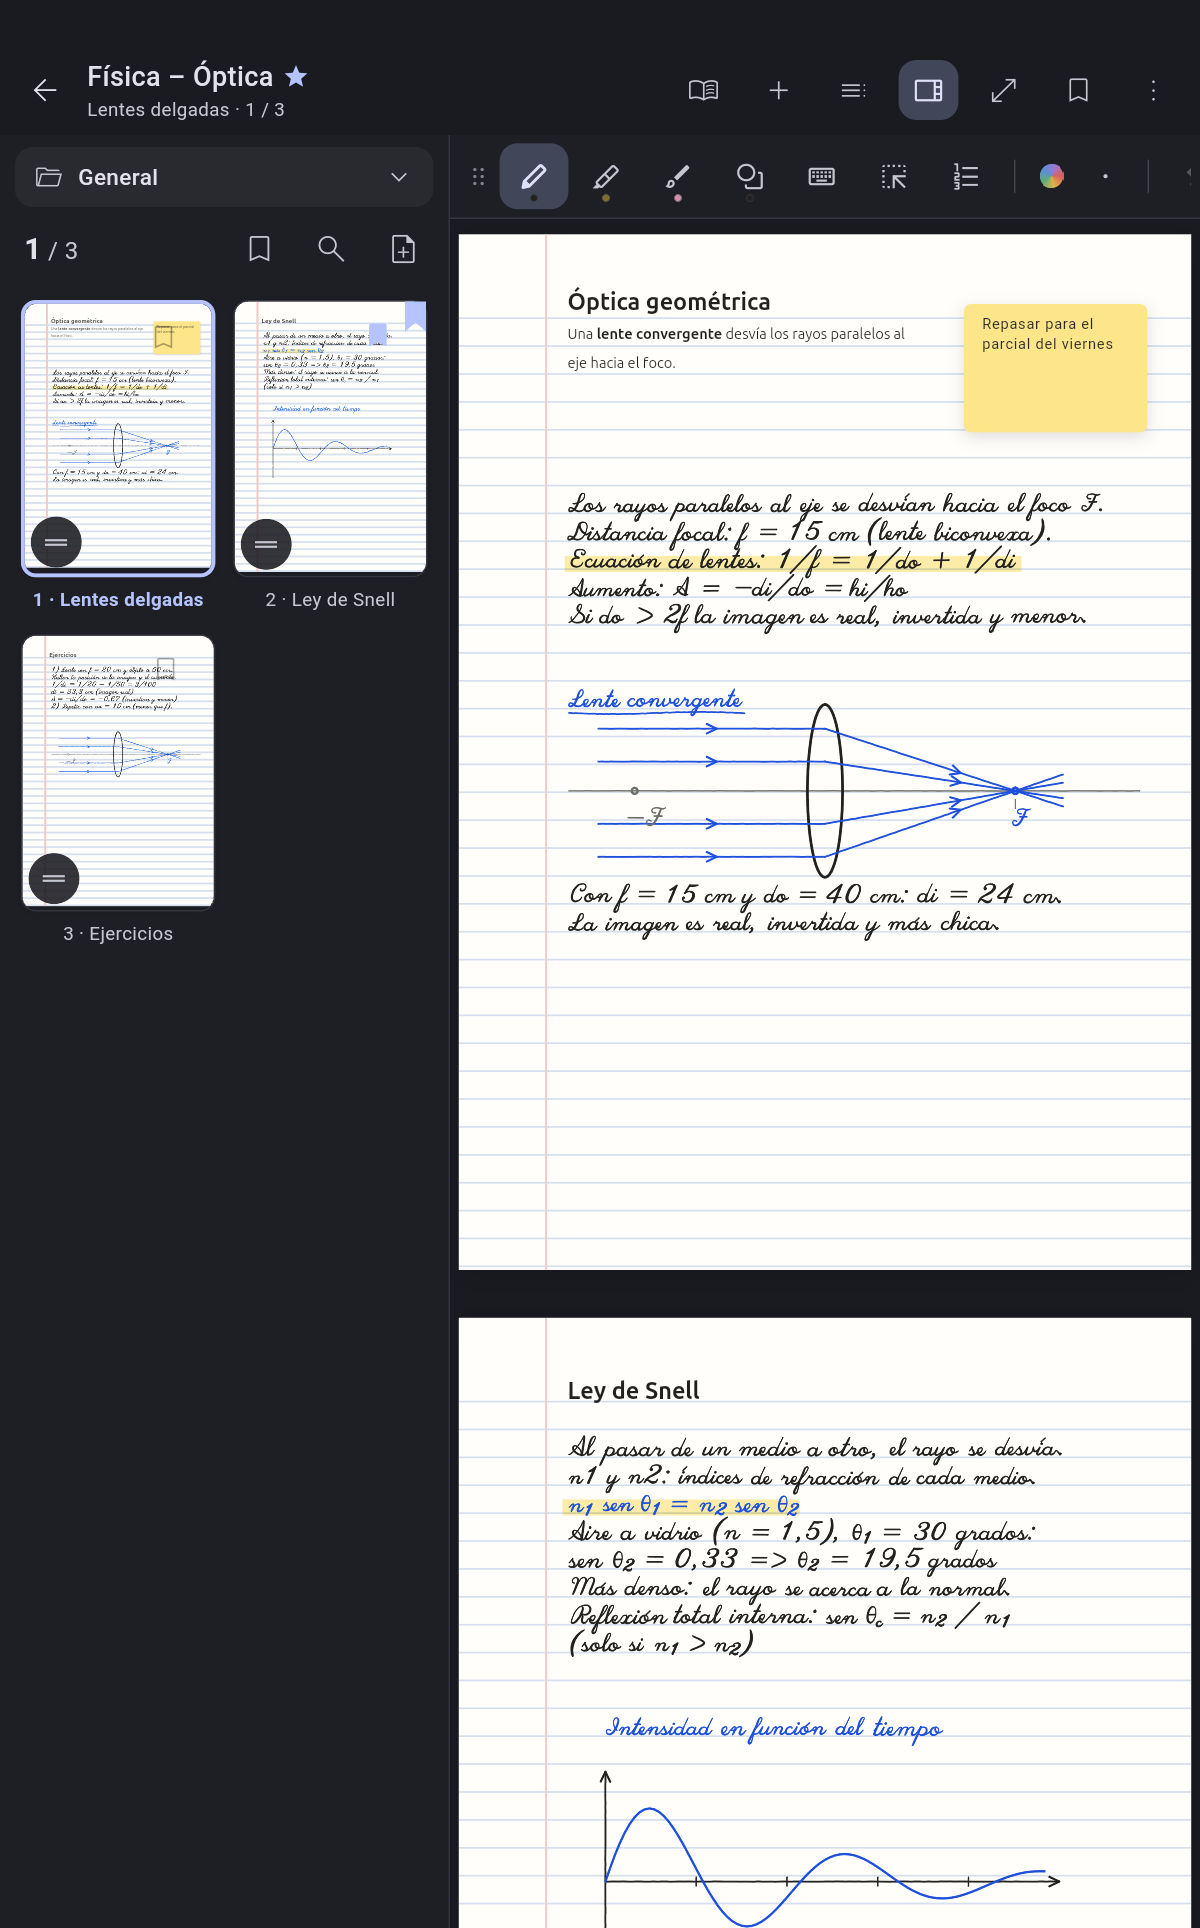
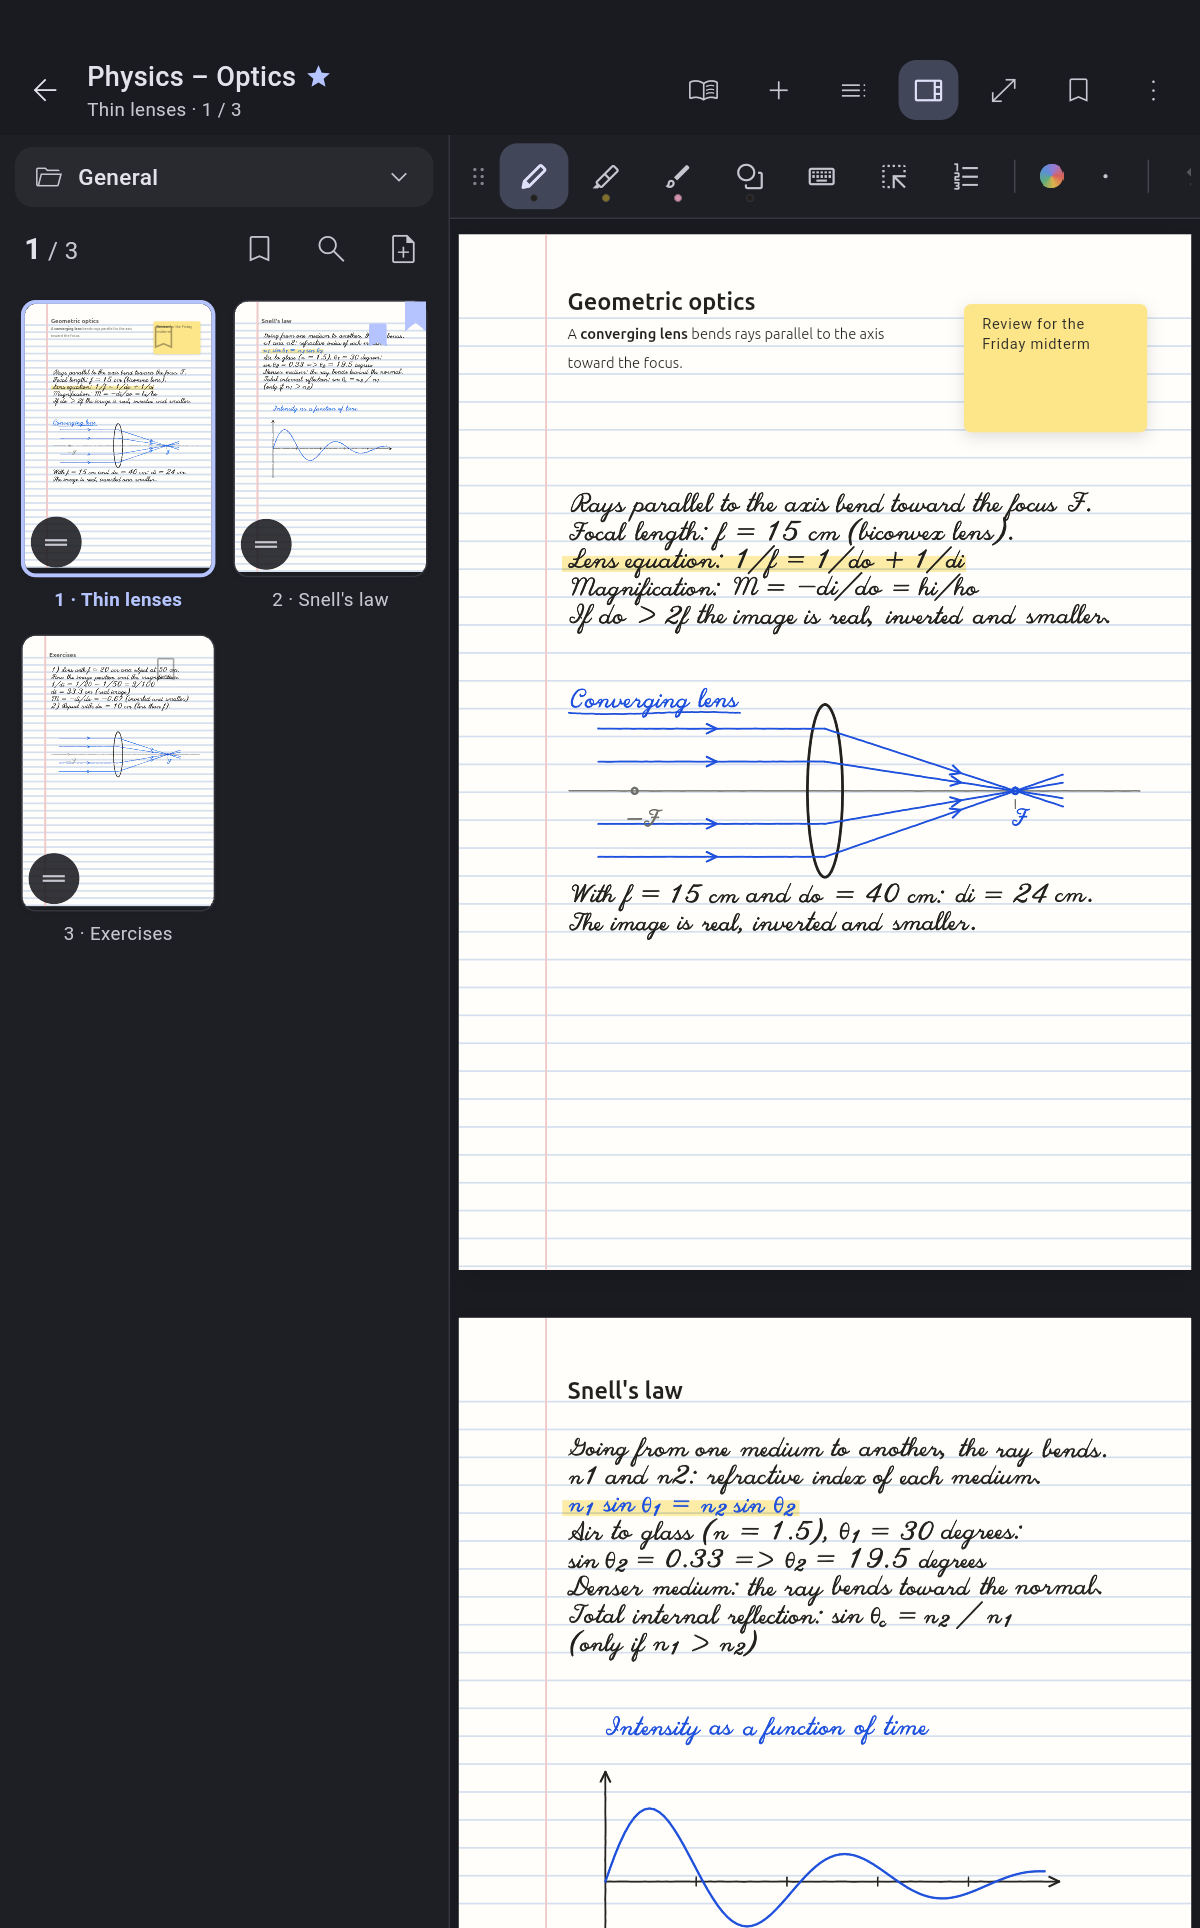
Capturas del README solo en inglés, en docs/img/; el inglés pasa a ser el idioma por defecto del contenido de ejemplo

diff --git a/integration_test/screenshots_data.dart b/integration_test/screenshots_data.dart
@@ -14,10 +14,10 @@ import 'package:pdf/widgets.dart' as pw;
 
 import 'hershey_script.dart';
 
-const shotLang = String.fromEnvironment('SHOT_LANG', defaultValue: 'es');
+const shotLang = String.fromEnvironment('SHOT_LANG', defaultValue: 'en');
 bool get _en => shotLang == 'en';
 
-/// Elige el texto de ejemplo según el idioma de las capturas (`--dart-define=SHOT_LANG=es|en`; por defecto es).
+/// Elige el texto de ejemplo según el idioma de las capturas (`--dart-define=SHOT_LANG=es|en`; por defecto en, el del README).
 String tr(String es, String en) => _en ? en : es;
 
 // Nombres de los cuadernos (el test los abre por su key `nb-<nombre>`).

diff --git a/README.md b/README.md
@@ -73,16 +73,16 @@ with no accounts and no servers of our own. If you want, you can sync them betwe
 
 <table>
   <tr>
-    <td align="center"><img src="docs/img/en/01_cuaderno.png" width="260" alt="A physics notebook with handwriting, a lens diagram, a highlighter and a sticky note"><br><sub><b>Notebook</b>: handwriting with pressure, keyboard text, highlighter and notes.</sub></td>
-    <td align="center"><img src="docs/img/en/02_panel_hojas.png" width="260" alt="The page panel with thumbnails of each page in the notebook"><br><sub><b>Page panel</b>: thumbnails to jump to, move or mark each page.</sub></td>
-    <td align="center"><img src="docs/img/en/03_biblioteca.png" width="260" alt="The library with folders and notebooks"><br><sub><b>Library</b>: folders, favorites and thumbnails of your notebooks.</sub></td>
+    <td align="center"><img src="docs/img/01_cuaderno.png" width="260" alt="A physics notebook with handwriting, a lens diagram, a highlighter and a sticky note"><br><sub><b>Notebook</b>: handwriting with pressure, keyboard text, highlighter and notes.</sub></td>
+    <td align="center"><img src="docs/img/02_panel_hojas.png" width="260" alt="The page panel with thumbnails of each page in the notebook"><br><sub><b>Page panel</b>: thumbnails to jump to, move or mark each page.</sub></td>
+    <td align="center"><img src="docs/img/03_biblioteca.png" width="260" alt="The library with folders and notebooks"><br><sub><b>Library</b>: folders, favorites and thumbnails of your notebooks.</sub></td>
   </tr>
   <tr>
-    <td align="center"><img src="docs/img/en/04_indice.png" width="260" alt="The Index panel with the notebook titles numbered by level"><br><sub><b>Index</b>: handwritten titles numbered by level, with the panel to jump to each one.</sub></td>
-    <td align="center"><img src="docs/img/en/05_figuras.png" width="260" alt="Neat shapes drawn from strokes, with handles to stretch and rotate"><br><sub><b>Shapes and selection</b>: neat shapes made from your strokes, with handles to stretch and rotate.</sub></td>
-    <td align="center"><img src="docs/img/en/06_pdf.png" width="260" alt="An imported PDF with highlighting and handwritten answers on top"><br><sub><b>Annotated PDF</b>: an imported PDF with highlighting and handwritten answers on top.</sub></td>
+    <td align="center"><img src="docs/img/04_indice.png" width="260" alt="The Index panel with the notebook titles numbered by level"><br><sub><b>Index</b>: handwritten titles numbered by level, with the panel to jump to each one.</sub></td>
+    <td align="center"><img src="docs/img/05_figuras.png" width="260" alt="Neat shapes drawn from strokes, with handles to stretch and rotate"><br><sub><b>Shapes and selection</b>: neat shapes made from your strokes, with handles to stretch and rotate.</sub></td>
+    <td align="center"><img src="docs/img/06_pdf.png" width="260" alt="An imported PDF with highlighting and handwritten answers on top"><br><sub><b>Annotated PDF</b>: an imported PDF with highlighting and handwritten answers on top.</sub></td>
   </tr>
-  <tr><td colspan="3" align="center"><img src="docs/img/en/07_sync.png" width="800" alt="The same notebook open on the tablet and in the Linux app, synced with Google Drive"><br><sub><b>Tablet and PC in sync</b>: the same notebook on the tablet and in the Linux app, with Google Drive.</sub></td></tr>
+  <tr><td colspan="3" align="center"><img src="docs/img/07_sync.png" width="800" alt="The same notebook open on the tablet and in the Linux app, synced with Google Drive"><br><sub><b>Tablet and PC in sync</b>: the same notebook on the tablet and in the Linux app, with Google Drive.</sub></td></tr>
 </table>
 
 ## Installation
